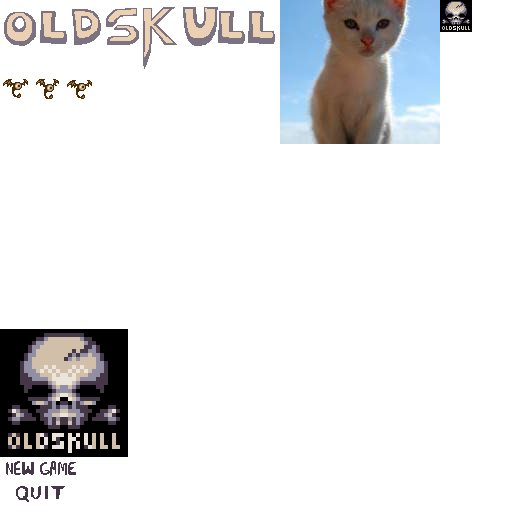
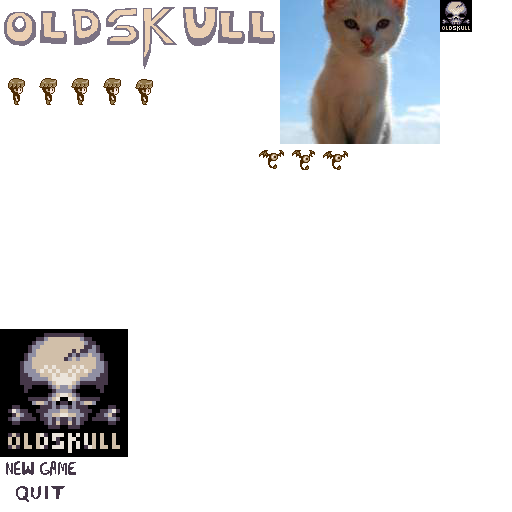
Loading map with player, better collision

Changed region(s): [[0.0, 0.1562, 0.3125, 0.2188], [0.5, 0.2812, 0.6875, 0.3438]]

diff --git a/OldSkull/GameLevel/PlatformerLevelLoader.cs b/OldSkull/GameLevel/PlatformerLevelLoader.cs
@@ -11,7 +11,9 @@ namespace OldSkull.GameLevel
     public class PlatformerLevelLoader
     {
         public List<Solid> solids;
+        public List<XmlElement> entities;
         public Vector2 size;
+        public Grid solidGrid;
 
         public static PlatformerLevelLoader load()
         {
@@ -22,12 +24,19 @@ namespace OldSkull.GameLevel
             XmlElement levelMap = xmlDoc["level"];
 
             current.size = new Vector2(int.Parse(levelMap.Attr("width")), int.Parse(levelMap.Attr("height")));
-
             current.solids = new List<Solid>();
-            foreach (XmlElement e in levelMap["Solid"])
+            current.solidGrid = new Grid(16, 16, levelMap["Solid"].InnerText);
+
+            current.entities = new List<XmlElement>();
+            foreach (XmlElement e in levelMap["Objects"])
             {
-                current.solids.Add(new Environment.Wall(int.Parse(e.Attr("x")), int.Parse(e.Attr("y")), int.Parse(e.Attr("w")), int.Parse(e.Attr("h"))));
+                current.entities.Add(e);
             }
+
+            //foreach (XmlElement e in levelMap["Solid"])
+            //{
+            //    current.solids.Add(new Environment.Wall(int.Parse(e.Attr("x")), int.Parse(e.Attr("y")), int.Parse(e.Attr("w")), int.Parse(e.Attr("h"))));
+            //}
 
             return current;
         }

diff --git a/OldSkull/GameLevel/PlatformerLevel.cs b/OldSkull/GameLevel/PlatformerLevel.cs
@@ -50,11 +50,6 @@ namespace OldSkull.GameLevel
             Solids = new List<Entity>();
         }
 
-        public override void Begin()
-        {
-            base.Begin();
-        }
-
         internal void loadLevel(PlatformerLevelLoader ll)
         {
             foreach (Solid solid in ll.solids)
@@ -62,6 +57,17 @@ namespace OldSkull.GameLevel
                 Add(solid);
                 Solids.Add(solid);
             }
+            foreach (XmlElement e in ll.entities)
+            {
+                LoadEntity(e);
+            }
+
+            Add(new SolidGrid(ll.solidGrid));
+        }
+
+        public virtual void LoadEntity(XmlElement e)
+        {
+            throw new NotImplementedException();
         }
 
         public override void Update()

diff --git a/OldSkull/Isle/IsleLevel.cs b/OldSkull/Isle/IsleLevel.cs
@@ -6,6 +6,7 @@ using OldSkull.GameLevel;
 using OldSkull.GenericEntities;
 using Monocle;
 using Microsoft.Xna.Framework;
+using System.Xml;
 
 namespace OldSkull.Isle
 {
@@ -21,11 +22,18 @@ namespace OldSkull.Isle
         {
             base.Begin();
             Add(new TilableBackground("sky", -3));
-
-            Player po = new Player(new Vector2(32), new Vector2(32));
-            Add(po);
-            CameraTarget = po;
         }
+
+        public override void LoadEntity(XmlElement e)
+        {
+            if (e.Name == "Player")
+            {
+                Player po = new Player(new Vector2(e.AttrFloat("x"), e.AttrFloat("y")), new Vector2(32));
+                Add(po);
+                CameraTarget = po;
+            }
+        }
+
     }
 }
 

diff --git a/OldSkull/GameLevel/Player.cs b/OldSkull/GameLevel/Player.cs
@@ -32,11 +32,11 @@ namespace OldSkull.GameLevel
         {
             base.Added();
 
-            image = OldSkullGame.SpriteData.GetSpriteString("eyebat");
+            image = OldSkullGame.SpriteData.GetSpriteString("jonathan");
             Add(image);
             image.X = image.Width / 2;
             image.Y = image.Height / 2;
-            image.Play("fly", true);
+            image.Play("idle", true);
         }
     }
 }

diff --git a/OldSkull/GameLevel/SolidGrid.cs b/OldSkull/GameLevel/SolidGrid.cs
@@ -1,0 +1,21 @@
+using System;
+using System.Collections.Generic;
+using System.Linq;
+using System.Text;
+using Monocle;
+using System.Xml;
+using Microsoft.Xna.Framework;
+
+namespace OldSkull.GameLevel
+{
+    class SolidGrid : Entity
+    {
+        public SolidGrid(Grid grid)
+            :base(-3)
+        {
+            Collider = grid;
+            Tag(GameTags.Solid);
+        }
+
+    }
+}

diff --git a/OldSkull/GameLevel/PlatformerObject.cs b/OldSkull/GameLevel/PlatformerObject.cs
@@ -48,8 +48,6 @@ namespace OldSkull.GameLevel
             LimitMaxSpeed();
             if (Math.Abs(Speed.Y)>0.5) onGround = false;
             Move(Speed, onCollideH, onCollideV);
-            if (onGround) image.Color = Color.Red;
-            else image.Color = Color.Plum;
         }
 
         private void LimitMaxSpeed()
